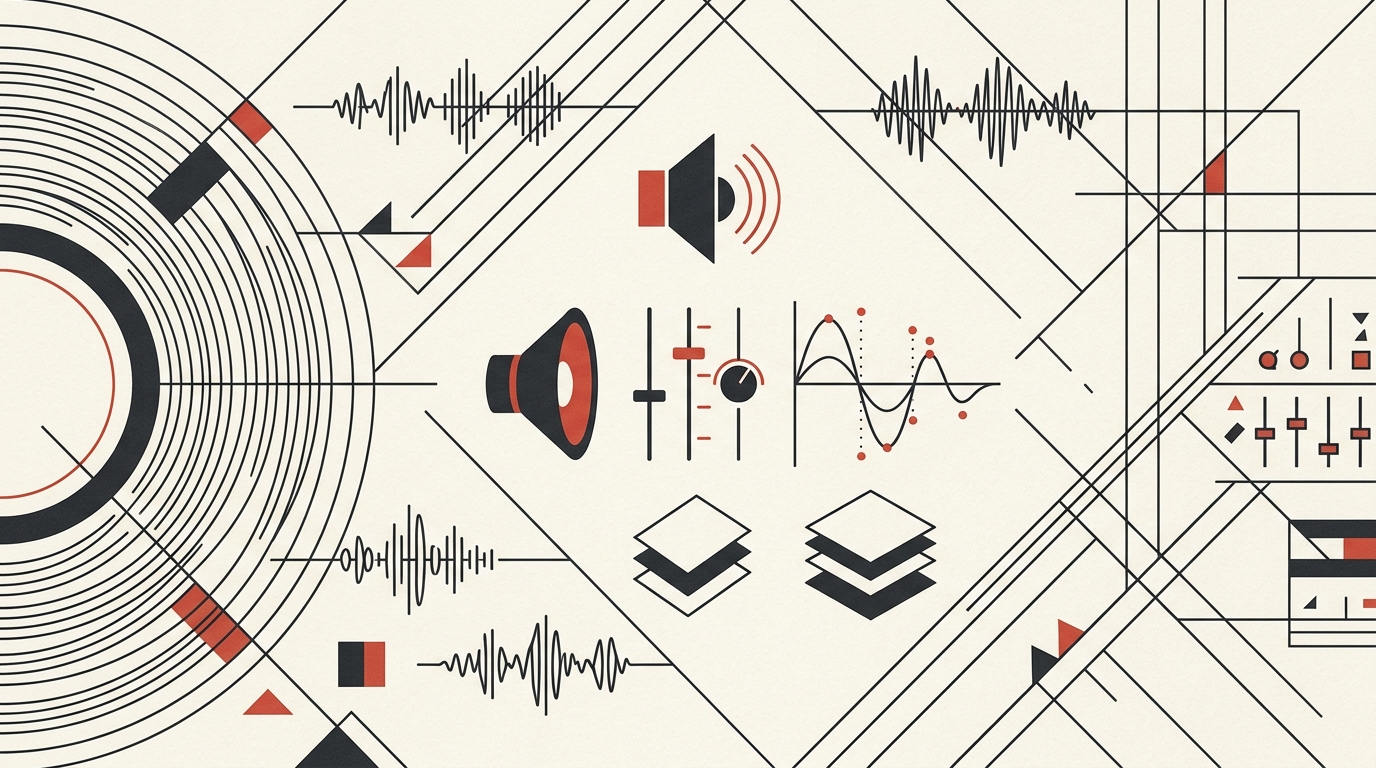
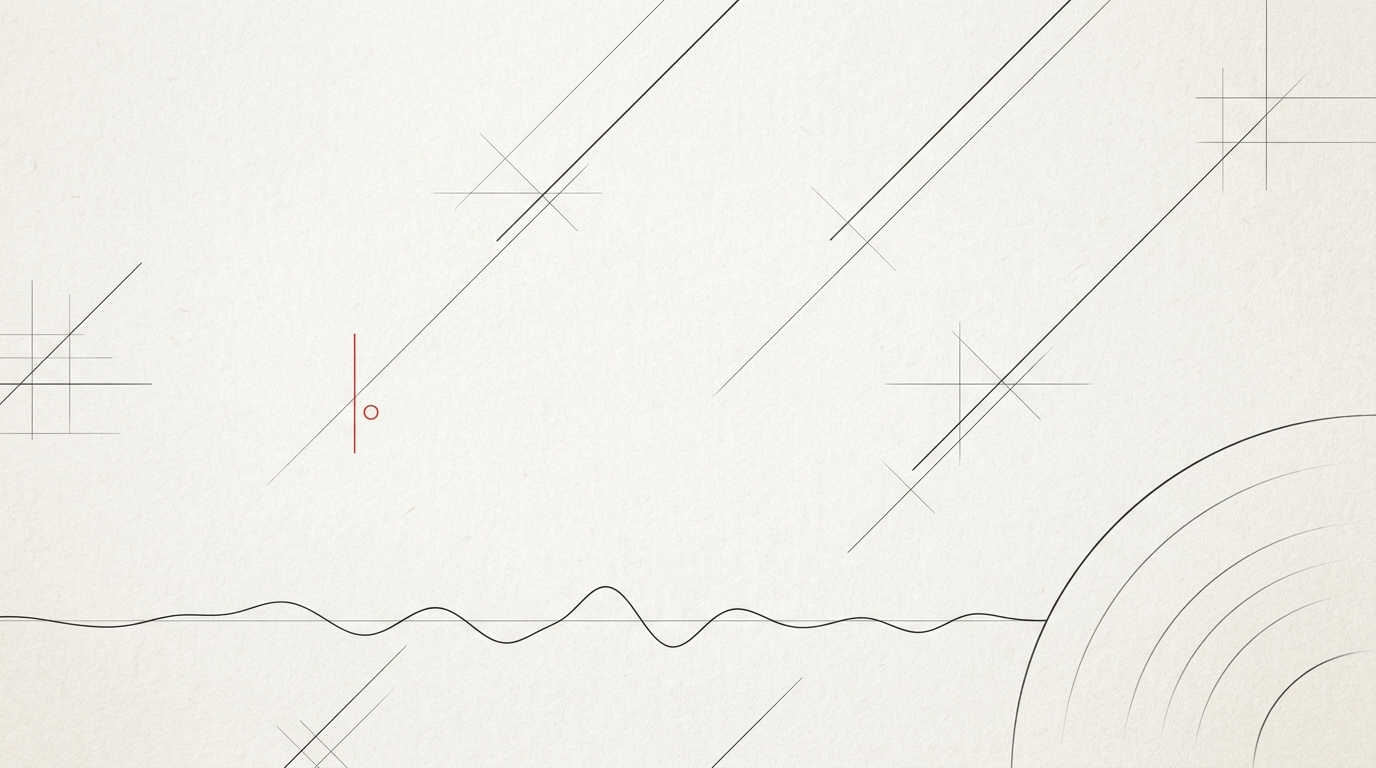
feat(landing): refine minimal background texture and add descriptive platform slogan

diff --git a/app/page.tsx b/app/page.tsx
@@ -57,19 +57,19 @@ export default function Home() {
 
   return (
     <div className="relative min-h-screen w-full flex flex-col items-center justify-center px-5 py-12 bg-[#FAFAF9] overflow-hidden select-none">
-      {/* ── Текстурный конструктивистский фон с музыкальными элементами ── */}
+      {/* ── Текстурный минималистичный конструктивистский фон ── */}
       <div className="absolute inset-0 pointer-events-none z-0">
         <Image
           src="/landing-bg.jpg"
-          alt="Constructivist Music Texture Background"
+          alt="Constructivist Music Minimal Background"
           fill
           priority
           sizes="100vw"
-          className="object-cover object-center opacity-35 mix-blend-multiply transition-opacity duration-1000"
+          className="object-cover object-center opacity-45 mix-blend-multiply transition-opacity duration-1000"
         />
         {/* Мягкие градиенты для идеальной читаемости интерфейса */}
-        <div className="absolute inset-0 bg-radial from-transparent via-[#FAFAF9]/40 to-[#FAFAF9]/85" />
-        <div className="absolute inset-0 bg-linear-to-b from-[#FAFAF9]/30 via-transparent to-[#FAFAF9]/75" />
+        <div className="absolute inset-0 bg-radial from-transparent via-[#FAFAF9]/30 to-[#FAFAF9]/80" />
+        <div className="absolute inset-0 bg-linear-to-b from-[#FAFAF9]/20 via-transparent to-[#FAFAF9]/70" />
       </div>
 
       {/* ── Основной контент ── */}
@@ -77,22 +77,34 @@ export default function Home() {
         initial={{ opacity: 0, y: 14 }}
         animate={{ opacity: 1, y: 0 }}
         transition={{ duration: 0.5, ease: "easeOut" }}
-        className="relative z-10 w-full max-w-[540px] flex flex-col items-center text-center"
+        className="relative z-10 w-full max-w-[560px] flex flex-col items-center text-center"
       >
         {/* Логотип и брендинг */}
         <div className="inline-flex items-center gap-2 px-3 py-1 mb-4 rounded-full bg-white/80 backdrop-blur-md border-[0.5px] border-[#ECEAE5] shadow-xs">
           <span className="w-2 h-2 rounded-full bg-[#E23A34] animate-pulse" />
-          <span className="text-[11.5px] font-semibold tracking-[0.14em] uppercase text-[#17161A]">
-            UNIT PLATFORM
+          <span className="text-[11px] font-semibold tracking-[0.16em] uppercase text-[#17161A]">
+            MUSIC OPERATING SYSTEM
           </span>
         </div>
 
-        <h1 className="font-semibold tracking-[0.12em] text-[32px] sm:text-[36px] text-[#17161A] mb-1.5 leading-tight">
+        <h1 className="font-semibold tracking-[0.14em] text-[34px] sm:text-[40px] text-[#17161A] mb-2 leading-tight">
           UNIT
         </h1>
-        <p className="text-[13px] text-[#6E6D73] max-w-[340px] mb-8 font-medium">
-          DEV MODE · выберите кабинет для тестирования
+
+        {/* Ёмкий слоган с сутью приложения */}
+        <p className="text-[14.5px] sm:text-[15px] text-[#17161A] font-medium max-w-[460px] leading-snug mb-1">
+          Единое пространство взаимодействия артистов и музыкальных лейблов
         </p>
+        <p className="text-[12.5px] text-[#6E6D73] max-w-[420px] leading-relaxed mb-8">
+          Управление релизами, согласование бюджетов, промо-отчёты и аналитика стриминга
+        </p>
+
+        {/* Режим тестирования */}
+        <div className="inline-flex items-center gap-1.5 text-[11.5px] text-[#6E6D73] bg-white/70 backdrop-blur-xs px-2.5 py-0.5 rounded-full border-[0.5px] border-[#ECEAE5] mb-5">
+          <span className="font-semibold text-[#17161A]">DEV MODE</span>
+          <span>·</span>
+          <span>выберите кабинет для входа</span>
+        </div>
 
         {/* ── Карточки выбора роли (Артист / Лейбл) ── */}
         <div className="grid grid-cols-1 sm:grid-cols-2 gap-4 w-full max-w-[440px]">
